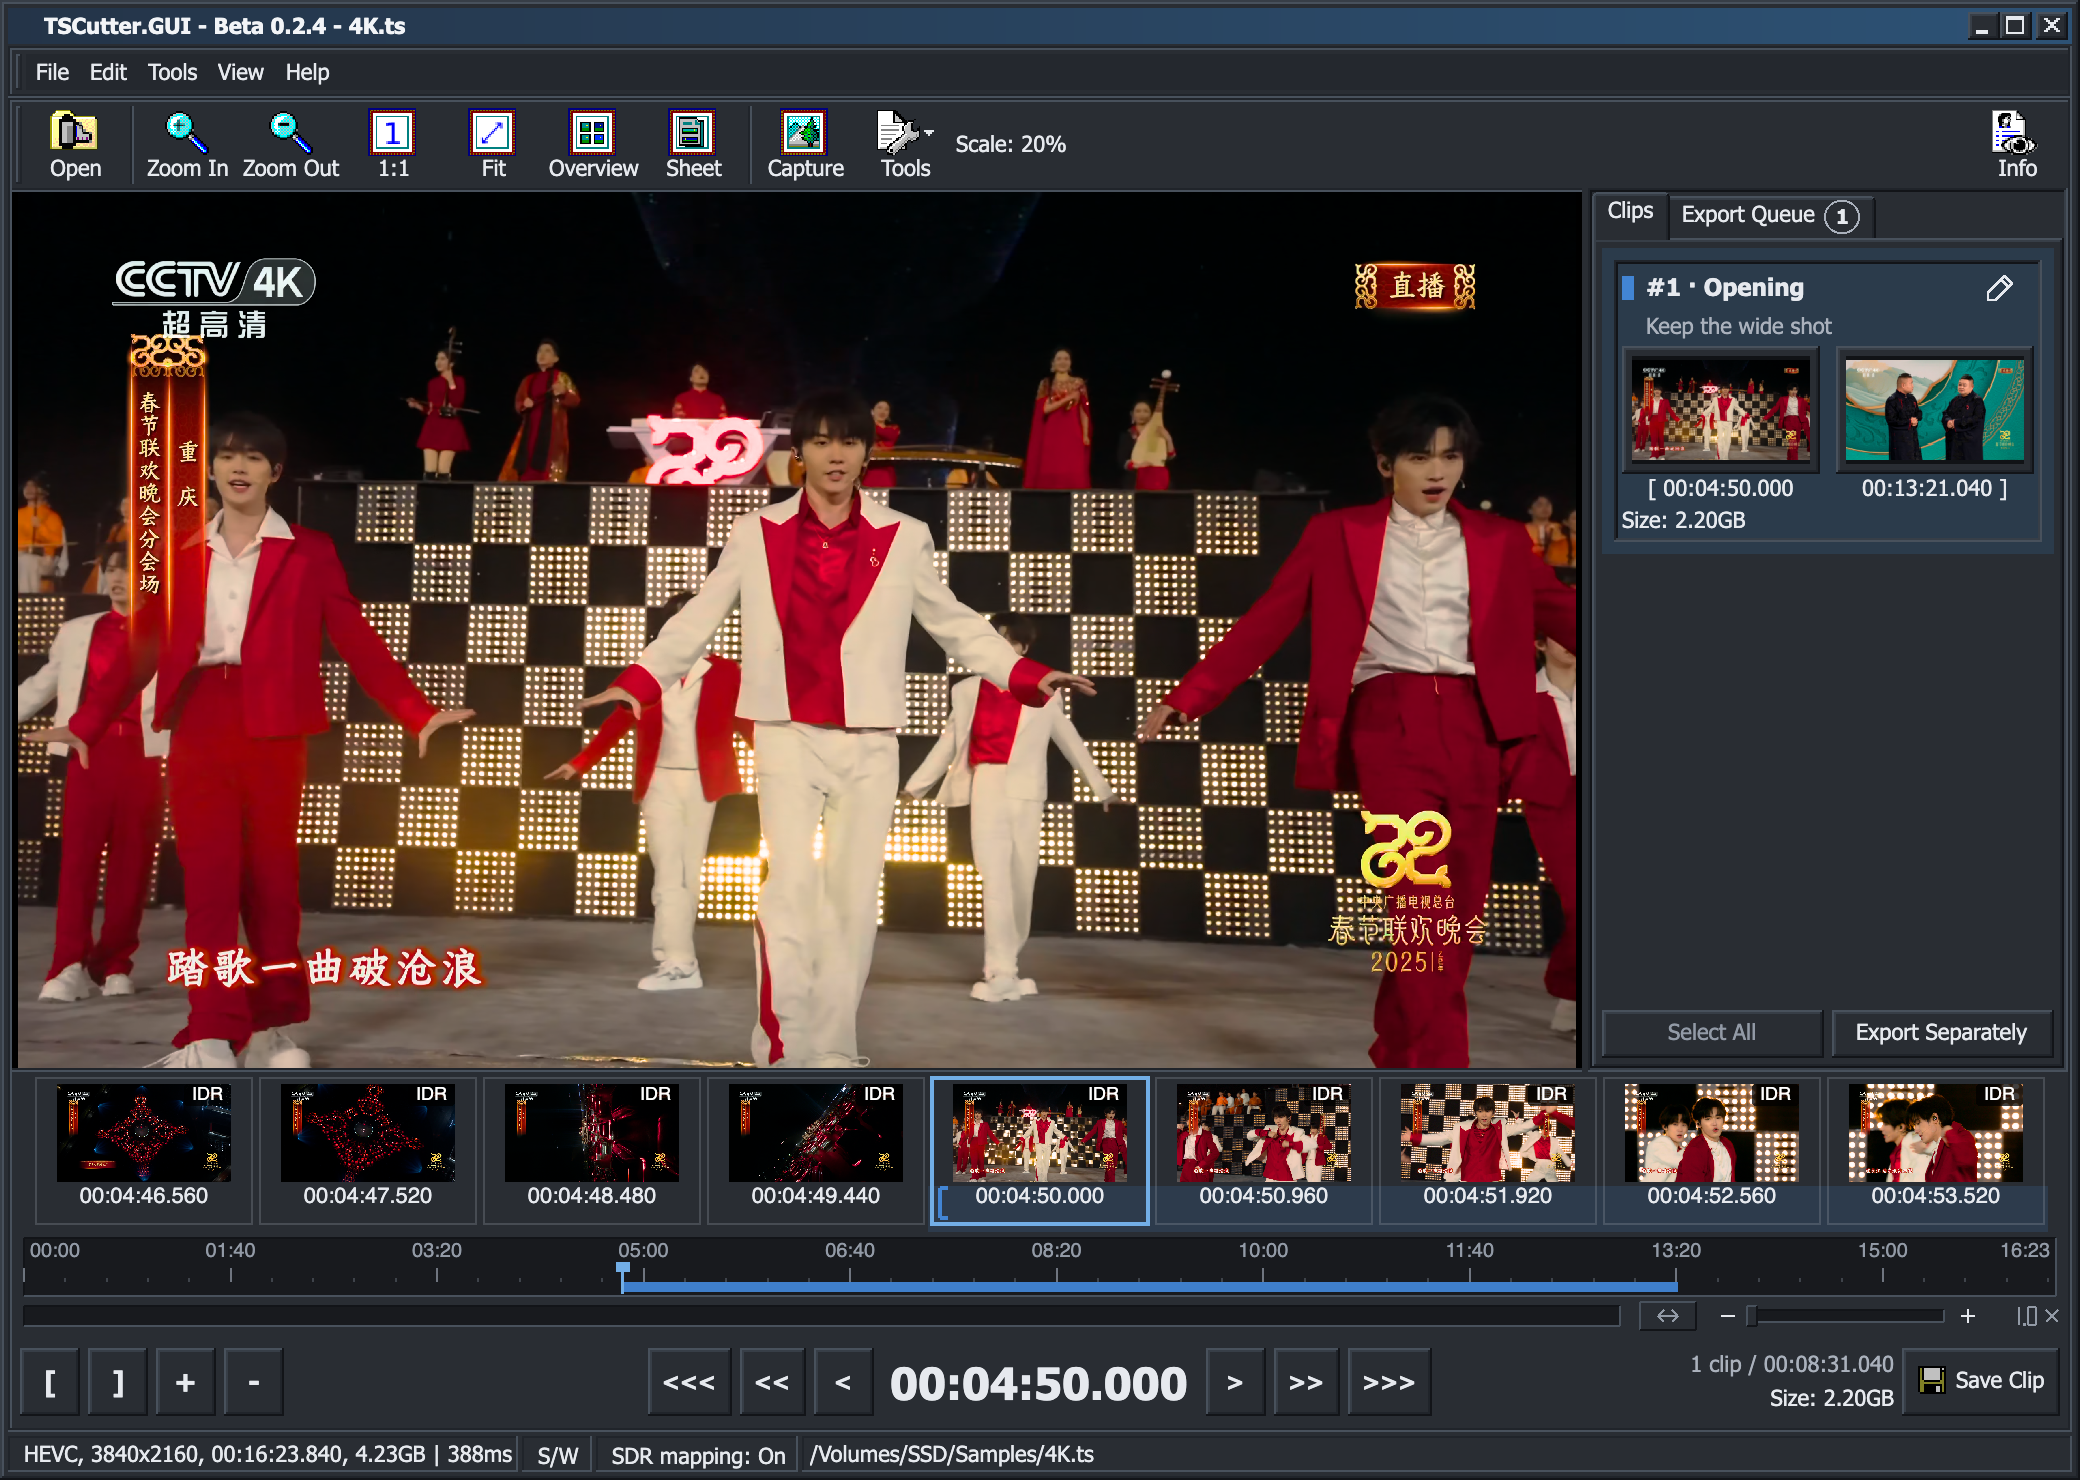
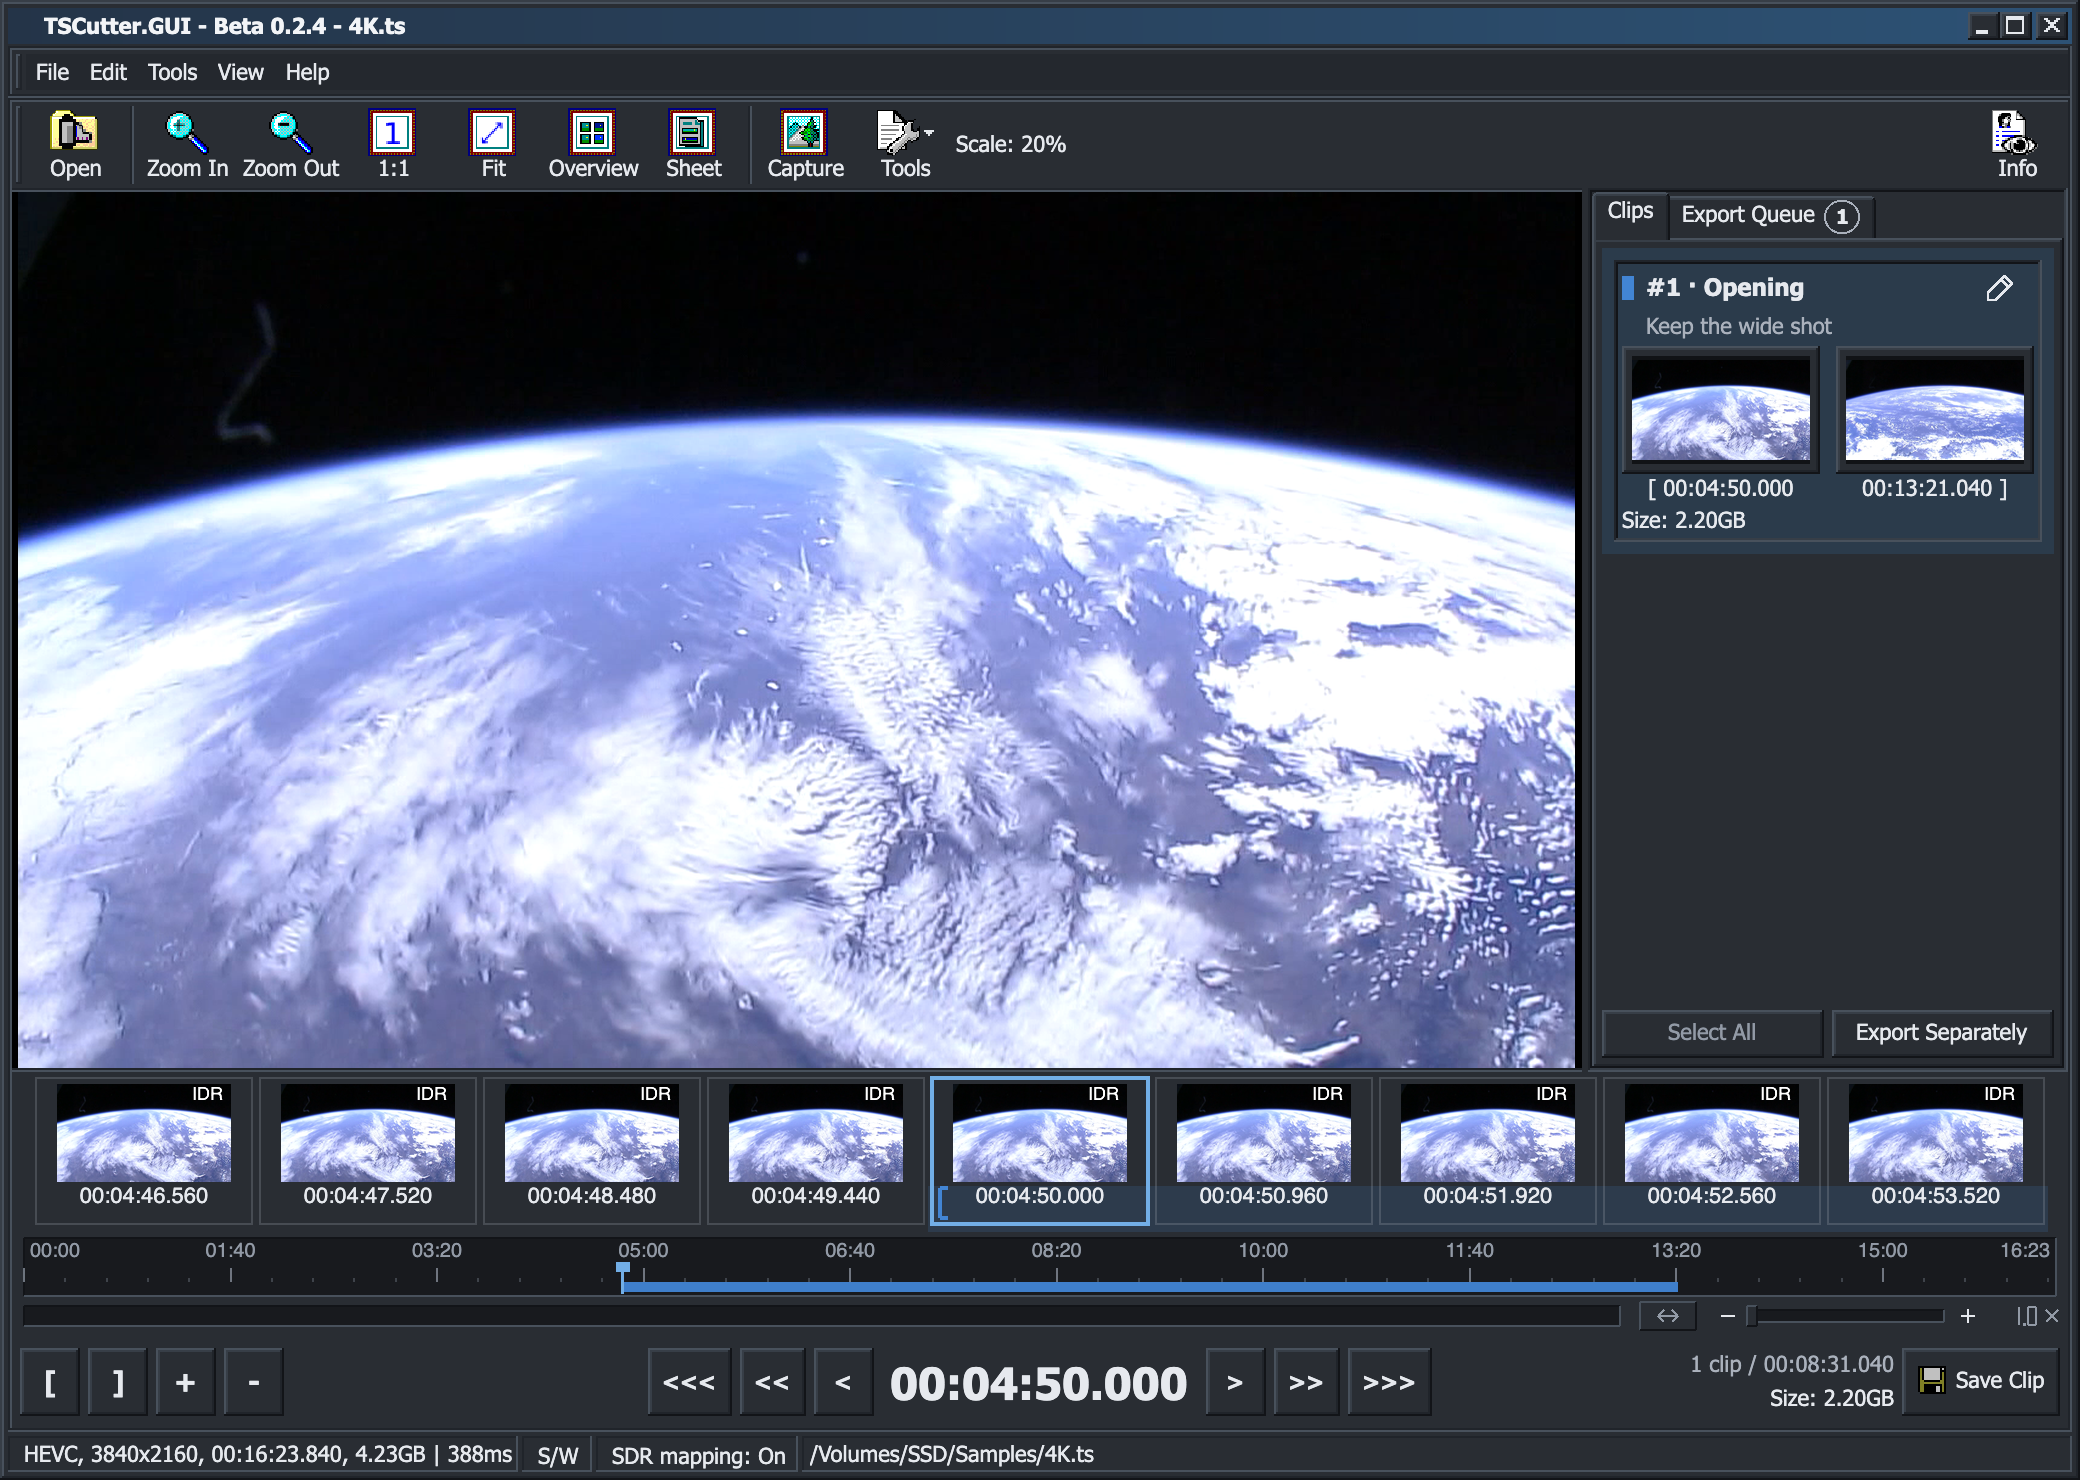
docs: replace preview footage with NASA Earth imagery

diff --git a/img/SOURCES.md b/img/SOURCES.md
@@ -1,0 +1,19 @@
+# Preview footage / 预览素材
+
+The video areas in `light_cn.png`, `dark_cn.png`, `light_en.png`, and `dark_en.png` use frames from **Earth Views from the ISS – No Music**, published by NASA on December 21, 2020.
+
+`light_cn.png`、`dark_cn.png`、`light_en.png` 和 `dark_en.png` 中的视频区域使用 NASA 于 2020 年 12 月 21 日发布的《Earth Views from the ISS – No Music》中的画面。
+
+- Credit / 署名：NASA
+- NASA ID：`NHQ_2020_1221_Earth Views`
+- [NASA media entry / 素材页面](https://images.nasa.gov/details/NHQ_2020_1221_Earth%20Views)
+- [Original video / 原始视频](https://images-assets.nasa.gov/video/NHQ_2020_1221_Earth%20Views/NHQ_2020_1221_Earth%20Views~orig.mp4)
+- [NASA images and media usage guidelines / 图片与媒体使用说明](https://www.nasa.gov/nasa-brand-center/images-and-media/)
+
+NASA states that its own imagery is generally not subject to copyright in the United States and may be used for informational purposes, including web pages, with NASA acknowledged as the source. The selected media entry does not identify a third-party copyright holder. NASA's name and imagery do not imply endorsement of TSCutter.GUI.
+
+NASA 说明，其自身影像通常在美国不受版权保护，可署名用于网页等信息展示。所选素材条目未标注第三方版权持有人。使用 NASA 名称及影像不表示 NASA 对 TSCutter.GUI 的认可或推荐。
+
+Only video pixels were replaced in the existing screenshots: the main preview, nine navigation thumbnails, and the clip's start and end images. Frames were extracted around 00:04:46.560–00:04:54.240 and 00:13:21.040 of the source, resized to fit the existing video areas, and the navigation frame-type labels were retained. No video file is stored in this repository.
+
+仅替换现有截图中的视频像素：主预览、九张导航缩略图和片段起止图。画面截取自源视频约 00:04:46.560–00:04:54.240 及 00:13:21.040，按原视频区域缩放，并保留导航中的帧类型标签。仓库不保存视频文件。

diff --git a/README.md b/README.md
@@ -75,6 +75,8 @@ Bundled runtime source: [nilaoda/FFmpegSharedLibraries](https://github.com/nilao
   <img alt="TSCutter.GUI preview" src="img/light_en.png">
 </picture>
 
+Preview footage: NASA, [Earth Views from the ISS – No Music](https://images.nasa.gov/details/NHQ_2020_1221_Earth%20Views). See [media source and usage notes](img/SOURCES.md).
+
 ### Desktop themes
 
 Six Windows-inspired theme families are available on Windows, Linux, and macOS, with light and dark palettes.
